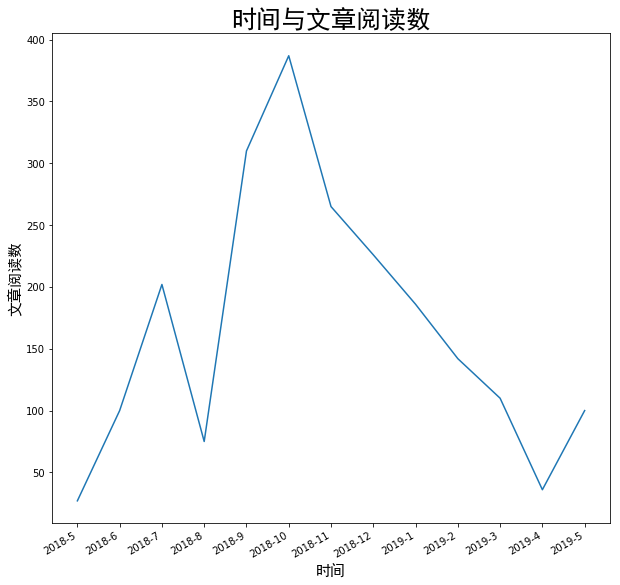
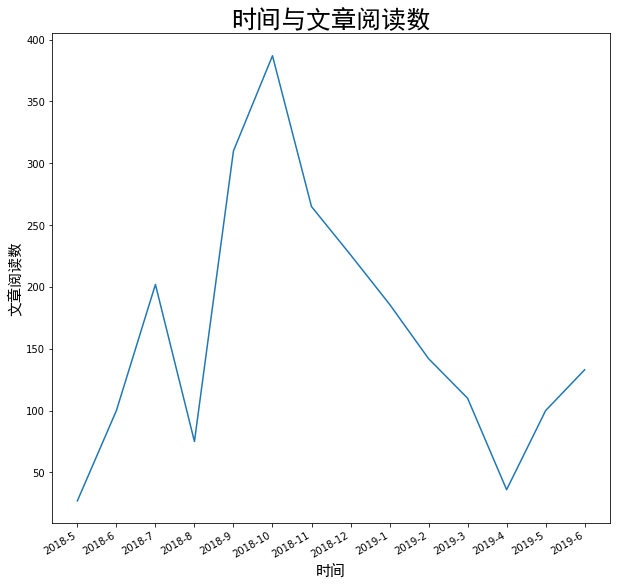
2019-7-1

diff --git a/number.py b/number.py
@@ -7,9 +7,9 @@ Created on Fri Sep 14 09:12:16 2018
 
 import matplotlib.pyplot as plt
 date=['2018-5','2018-6','2018-7','2018-8','2018-9','2018-10','2018-11','2018-12',
-    '2019-1','2019-2','2019-3','2019-4','2019-5']
+    '2019-1','2019-2','2019-3','2019-4','2019-5','2019-6']
 number=[27,100,202,75,310,387,265,226,
-        186,142,110,36,100]
+        186,142,110,36,100,133]
 print("total number: ",sum(number))
 
 plt.figure(figsize=(10,10))

diff --git a/README.md b/README.md
@@ -4,15 +4,26 @@
 共2166篇文章        
 
 
-## 2019-6
 
+## 2019-7
 
 *   []()
 *   []()
+*   [LR(1) 分析例子](https://blog.csdn.net/vincent2610/article/details/24391133)
+*   [Entity Framework Core 2.0 使用入门 - 晓晨Master - 博客园](https://www.cnblogs.com/stulzq/p/7717873.html)
+*   [Win10 1903可命名空名文件](https://www.windows10.pro/empty-name-file/)
+
+
+
+## 2019-6  共133篇
+*   [「重磅」Win10 1903有哪些新功能？2019年4月更新汇总](https://www.windows10.pro/april-2019-update-19h1-win10-1903-new-features-improvement/)
+*   [似然（likelihood）与概率（probability）的区别](https://yangfangs.github.io/2018/04/06/the-different-of-likelihood-and-probability/)
 *   [**学习 Node.js，第 1 单元：Node.js 学习路径概述**](https://www.ibm.com/developerworks/cn/opensource/os-learn-node-unit-1-overview-nodejs-learning-path/)
 *   [学习 Node.js，第 2 单元：安装 Node.js、npm 和 VSCode](https://www.ibm.com/developerworks/cn/opensource/os-tutorials-learn-nodejs-installing-node-nvm-and-vscode/)
 *   [What is the difference between uninformed and informed search? - Quora](https://www.quora.com/What-is-the-difference-between-uninformed-and-informed-search)
 *   [A* Search Algorithm](https://www.geeksforgeeks.org/a-search-algorithm/)
+*   [KNN介绍](https://github.com/wmpscc/ML-DL/tree/master/kNN)
+*   [What is the difference between probability and likelihood?](https://www.quora.com/What-is-the-difference-between-probability-and-likelihood-1/answer/Jason-Eisner?share=cbfeda82&srid=zDgIt)
 *   [parsing - Why can't a compiler have a "shift/shift" conflict? - Stack Overflow](https://stackoverflow.com/questions/13780216/why-cant-a-compiler-have-a-shift-shift-conflict)
 *   [Scut_cs_homework/编译原理/答案 at master · ahangchen/Scut_cs_homework](https://github.com/ahangchen/Scut_cs_homework/tree/master/%E7%BC%96%E8%AF%91%E5%8E%9F%E7%90%86/%E7%AD%94%E6%A1%88)
 *   [编译原理LL(1)详解 - OT元旦 - 博客园](https://www.cnblogs.com/yuanting0505/p/3761411.html)
